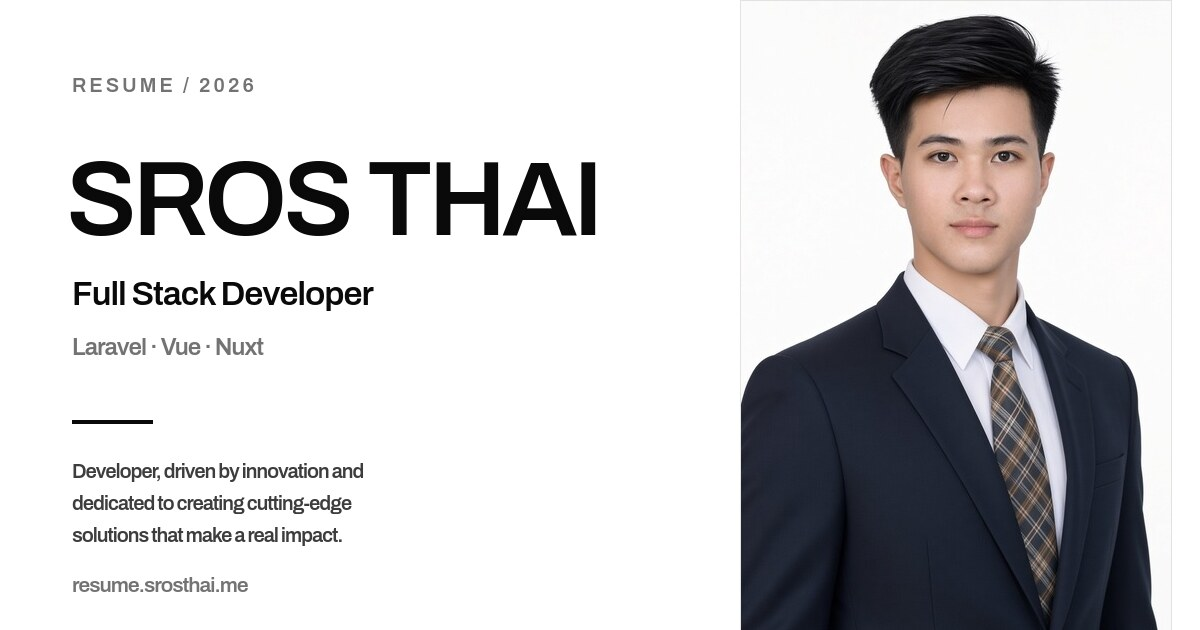
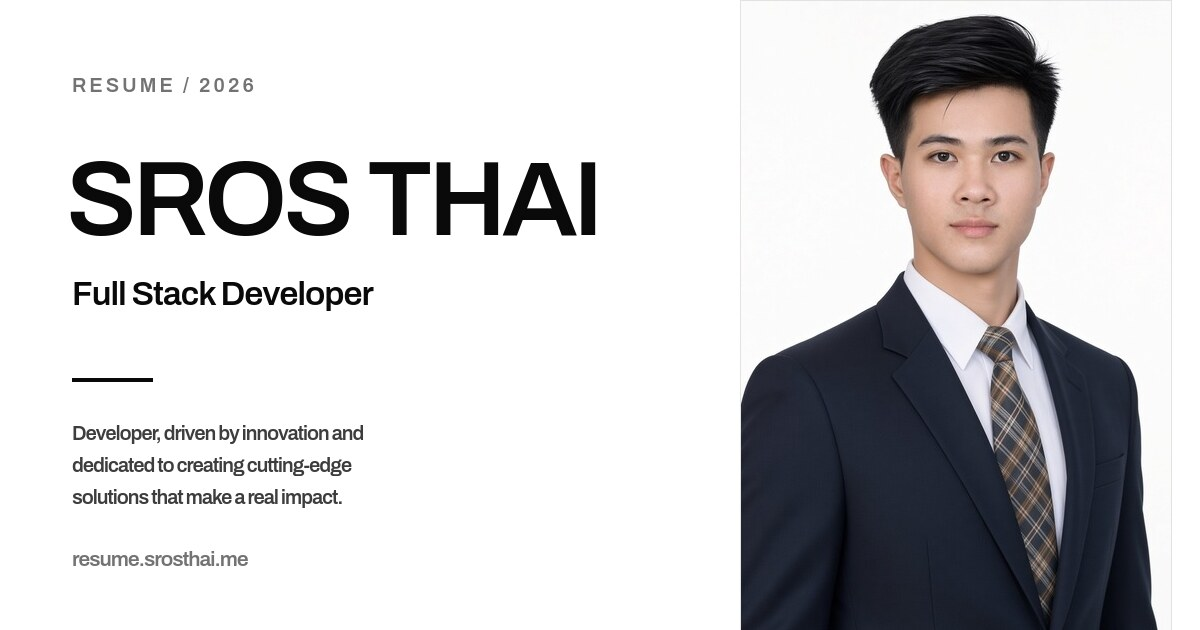
feat: update projects, portfolio link, and remove focus row

Changed region(s): [[0.0617, 0.6635, 0.3083, 0.8143], [0.0617, 0.8444, 0.2775, 0.9651], [0.0617, 0.5429, 0.2158, 0.6333]]

diff --git a/src/data/resume.ts b/src/data/resume.ts
@@ -42,6 +42,8 @@ export interface Project {
   stack: string[];
   cover: string;
   coverAlt: string;
+  coverWidth?: number;
+  coverHeight?: number;
   fit: 'cover' | 'contain';
   links: { label: string; href: string }[];
 }
@@ -54,7 +56,7 @@ export const profile: Profile = {
   email: 'srosthai00@gmail.com',
   github: 'https://github.com/srosthai',
   linkedin: 'https://www.linkedin.com/in/sros-thai-b491b42ab/',
-  projectsUrl: 'https://projects.srosthai.me',
+  projectsUrl: 'https://srosthai.me',
   site: 'https://resume.srosthai.me',
   summary:
     'Developer, driven by innovation and dedicated to creating cutting-edge solutions that make a real impact.',
@@ -187,8 +189,10 @@ export const projects: Project[] = [
     description:
       'A local-first desktop app for managing Linux VPS servers over SSH. Inventory, monitoring, terminals, services, and files in one workspace — with no hosted account or server agent.',
     stack: ['Tauri 2', 'Rust', 'React 19', 'TypeScript', 'SQLite', 'SSH/SFTP'],
-    cover: '/projects/serdesk.webp',
-    coverAlt: 'ServerDesk server inventory screen',
+    cover: '/projects/server-desk.webp',
+    coverAlt: 'ServerDesk logo',
+    coverWidth: 1200,
+    coverHeight: 800,
     fit: 'cover',
     links: [
       { label: 'View', href: 'https://serdesk.srosthai.me/' },
@@ -196,16 +200,18 @@ export const projects: Project[] = [
     ]
   },
   {
-    title: 'Vendly',
+    title: 'Bandith Card Store',
     type: 'Full stack',
     year: '2026',
     description:
-      'A one-link online shop for small sellers, in the browser and inside Telegram. Customers browse, add to cart, and send a buy request straight to the seller’s chat.',
-    stack: ['Laravel 13', 'Inertia', 'React 19', 'TypeScript', 'Tailwind CSS', 'PostgreSQL'],
-    cover: '/projects/vendly.webp',
-    coverAlt: 'Vendly logo',
+      'A Khmer digital invitation store. Choose a template, personalise it, and share one link with unlimited guests for weddings, engagements, housewarmings, and birthdays.',
+    stack: ['Laravel', 'Vue.js', 'MySQL'],
+    cover: '/projects/bandith-logo.webp',
+    coverAlt: 'Bandith Card Store logo',
+    coverWidth: 1200,
+    coverHeight: 630,
     fit: 'contain',
-    links: [{ label: 'GitHub', href: 'https://github.com/srosthai/vendly' }]
+    links: [{ label: 'View', href: 'https://bandithcardstore.com/' }]
   },
   {
     title: 'RentMee',
@@ -216,6 +222,8 @@ export const projects: Project[] = [
     stack: ['Laravel', 'React', 'MySQL', 'Tailwind CSS'],
     cover: '/projects/rentmee.webp',
     coverAlt: 'RentMee invoice icon',
+    coverWidth: 800,
+    coverHeight: 800,
     fit: 'contain',
     links: [{ label: 'View', href: 'https://rentmee.srosthai.me/' }]
   }

diff --git a/src/components/ProjectRow.jsx b/src/components/ProjectRow.jsx
@@ -32,8 +32,8 @@ export default function ProjectRow({ project }) {
           className={project.fit === 'contain' ? 'is-contain' : undefined}
           src={project.cover}
           alt={project.coverAlt}
-          width={project.fit === 'contain' ? 800 : 960}
-          height={project.fit === 'contain' ? 800 : 540}
+          width={project.coverWidth ?? (project.fit === 'contain' ? 800 : 1200)}
+          height={project.coverHeight ?? (project.fit === 'contain' ? 800 : 800)}
           loading="lazy"
           decoding="async"
         />

diff --git a/src/styles/global.css b/src/styles/global.css
@@ -228,6 +228,10 @@ section[id] {
   margin-left: auto;
 }
 
+.header-gooey {
+  overflow: hidden;
+}
+
 .site-nav {
   display: none;
   align-items: center;
@@ -532,7 +536,7 @@ section[id] {
 
 .hero-facts {
   display: grid;
-  grid-template-columns: repeat(3, minmax(0, 1fr));
+  grid-template-columns: repeat(2, minmax(0, 1fr));
   gap: 24px;
   margin-top: auto;
   padding-block: 18px;

diff --git a/PRODUCT.md b/PRODUCT.md
@@ -42,6 +42,7 @@ Name: SROS THAI. Role: Full Stack Developer. Voice: direct, calm, specific. No h
 ## Evidence on Hand
 
 - Public CV: `https://raw.githubusercontent.com/srosthai/Portfolio/main/public/images/Thai-CV.pdf` — work history, education, skills, contact.
+- Official portfolio: `https://srosthai.me`.
 - Public project archive: `https://projects.srosthai.me` — project descriptions, stacks, and covers.
 - Supplied portrait: `/home/dev/Native-project/resume.portfolio/IMG_1180.JPG`.
 - Existing domain: `resume.srosthai.me`.
